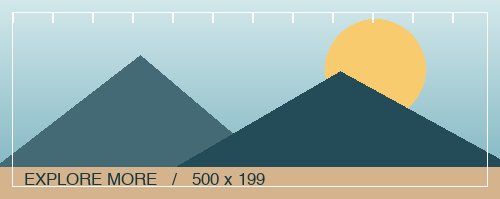
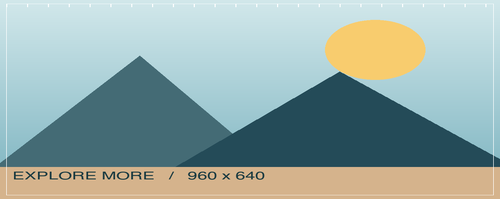
Add small image ladder and precise size controls

diff --git a/image-panel-lab/app.js b/image-panel-lab/app.js
@@ -19,3 +19,14 @@ function refresh(){$('#dpr').textContent=devicePixelRatio;monitors.forEach(f=>f(
 if(location.hostname==='localhost'||location.hostname.endsWith('.localhost')||location.hostname==='127.0.0.1'){for(const host of ['a.localhost','b.localhost']){const a=document.createElement('a'),url=new URL(location.href);url.hostname=host;a.href=url.href;a.textContent=host+' ↗';a.target='_blank';a.rel='noopener';a.style.marginRight='24px';$('#local-links').append(a)}}else $('#local-links').textContent='На опубликованном стенде доступен один host. Для проверки поддоменов используйте локальный комплект или URL второй копии.';
 $('#open-other').onclick=()=>{try{const u=new URL($('#other').value);if(!['http:','https:'].includes(u.protocol))throw Error();if(u.hostname===location.hostname){$('#host-message').textContent='Этот URL имеет тот же host — независимость настроек не проверяется.';return}window.open(u.href,'_blank','noopener');$('#host-message').textContent='Открыт host: '+u.hostname}catch{$('#host-message').textContent='Введите полный HTTP(S) URL.'}};
 $('#load-external').onclick=()=>{const p=$('#external-result');p.replaceChildren();try{const u=new URL($('#external').value);if(!['http:','https:'].includes(u.protocol))throw Error();card(p,'Внешний источник',u.href,600,400)}catch{p.textContent='Введите полный HTTP(S) URL картинки.'}};
+
+// Empirical size ladder: no assumed panel visibility.
+const small=document.createElement('section');small.id='small';
+small.innerHTML=`<div class="section-title"><h2>Меньше порога / Найти фактическую границу</h2><span>32–300 PX · БЕЗ РАСТЯГИВАНИЯ</span></div><p>Проверяйте от больших к маленьким. Здесь нет заранее заданного ожидания показа панели. Во всех готовых примерах оригинал совпадает с отображаемым размером при CSS zoom 100%. Для начала установите масштаб браузера 100%.</p><label>Ряд размеров <select id="small-axis"><option value="square">Квадраты: уменьшаются обе стороны</option><option value="width">Только ширина, высота 400 px</option><option value="height">Только высота, ширина 500 px</option></select></label><div id="small-cases" class="grid"></div><h3 style="margin-top:32px">Точная подстройка отображаемого размера</h3><p>Здесь оригинал всегда 960×640. Меняется только CSS-размер, поэтому этот пример проверяет влияние отображаемой площади отдельно. Если панель есть при 200 и отсутствует при 180, попробуйте 190, затем уточняйте с шагом 1 px. После изменения размера уберите курсор с картинки и наведите заново.</p><div style="display:flex;gap:20px;flex-wrap:wrap"><label>Ширина, CSS px <input id="probe-w" type="number" min="1" max="1000" value="150" step="1" style="width:160px"></label><label>Высота, CSS px <input id="probe-h" type="number" min="1" max="1000" value="150" step="1" style="width:160px"></label></div><button id="probe-apply">Применить размер</button><p id="probe-status" role="status"></p><div id="probe-card" class="grid"></div>`;
+$('#bounds').before(small);
+const smallLink=document.createElement('a');smallLink.href='#small';smallLink.textContent='Меньшие размеры ↓';document.querySelector('nav').prepend(smallLink);
+const ladder=[300,250,220,200,199,180,150,128,100,80,64,32];
+function renderSmall(){const host=$('#small-cases');host.replaceChildren();const axis=$('#small-axis').value;for(const n of ladder){const w=axis==='height'?500:n,h=axis==='width'?400:n;card(host,`${w} × ${h} · оригинал = показ`,asset(w,h),w,h)}}
+$('#small-axis').onchange=renderSmall;renderSmall();
+const probe=card($('#probe-card'),'Ручной CSS-размер',asset(960,640),150,150);const probeImage=probe.querySelector('img');
+$('#probe-apply').onclick=()=>{const w=Number($('#probe-w').value),h=Number($('#probe-h').value);if(!Number.isInteger(w)||!Number.isInteger(h)||w<1||h<1||w>1000||h>1000){$('#probe-status').textContent='Введите целые размеры от 1 до 1000 px.';return}probeImage.width=w;probeImage.height=h;probe.querySelector('h3').textContent=`Ручной CSS-размер: ${w} × ${h}`;$('#probe-status').textContent='Размер применён. Уберите курсор с картинки и наведите снова.';refresh()};
